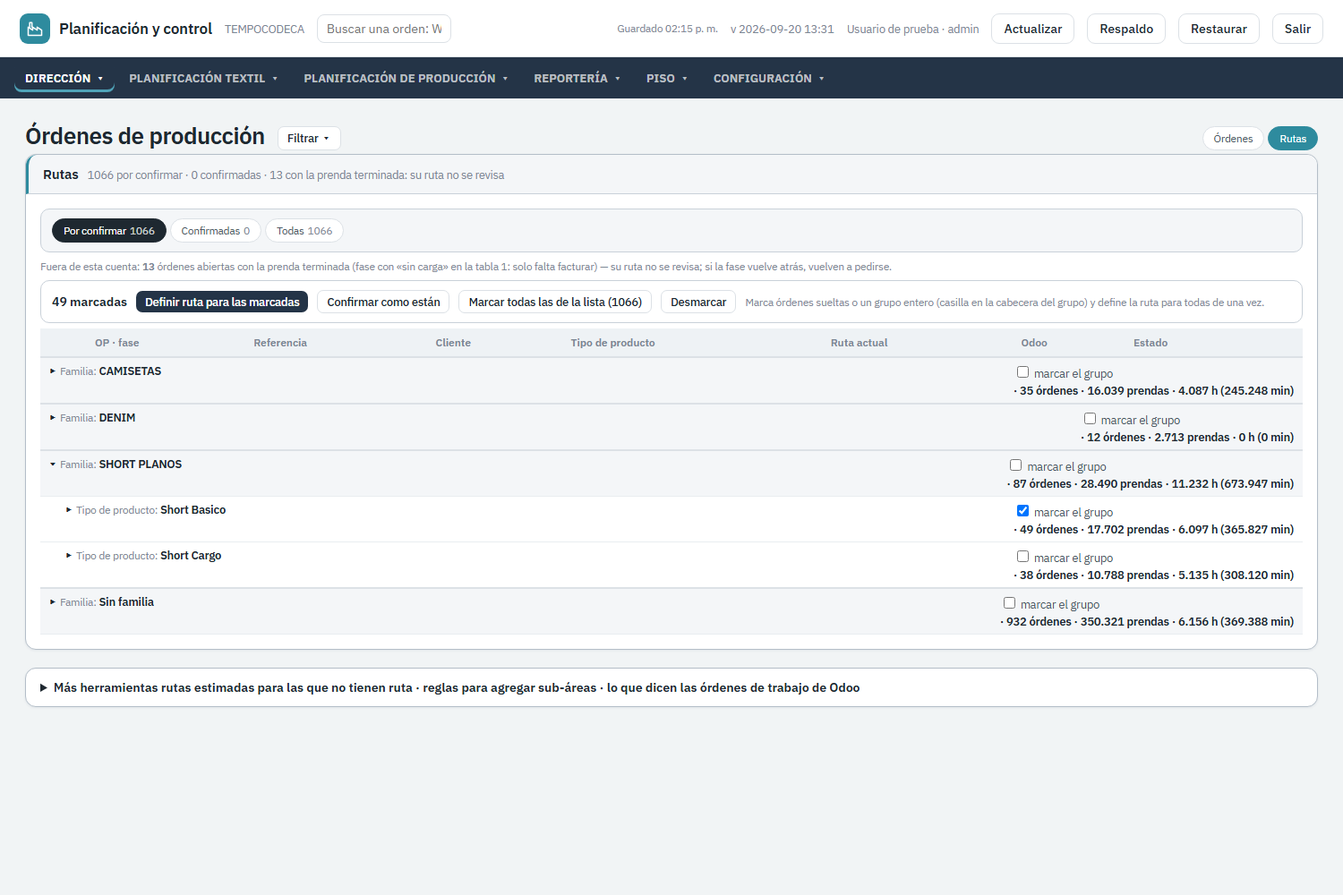
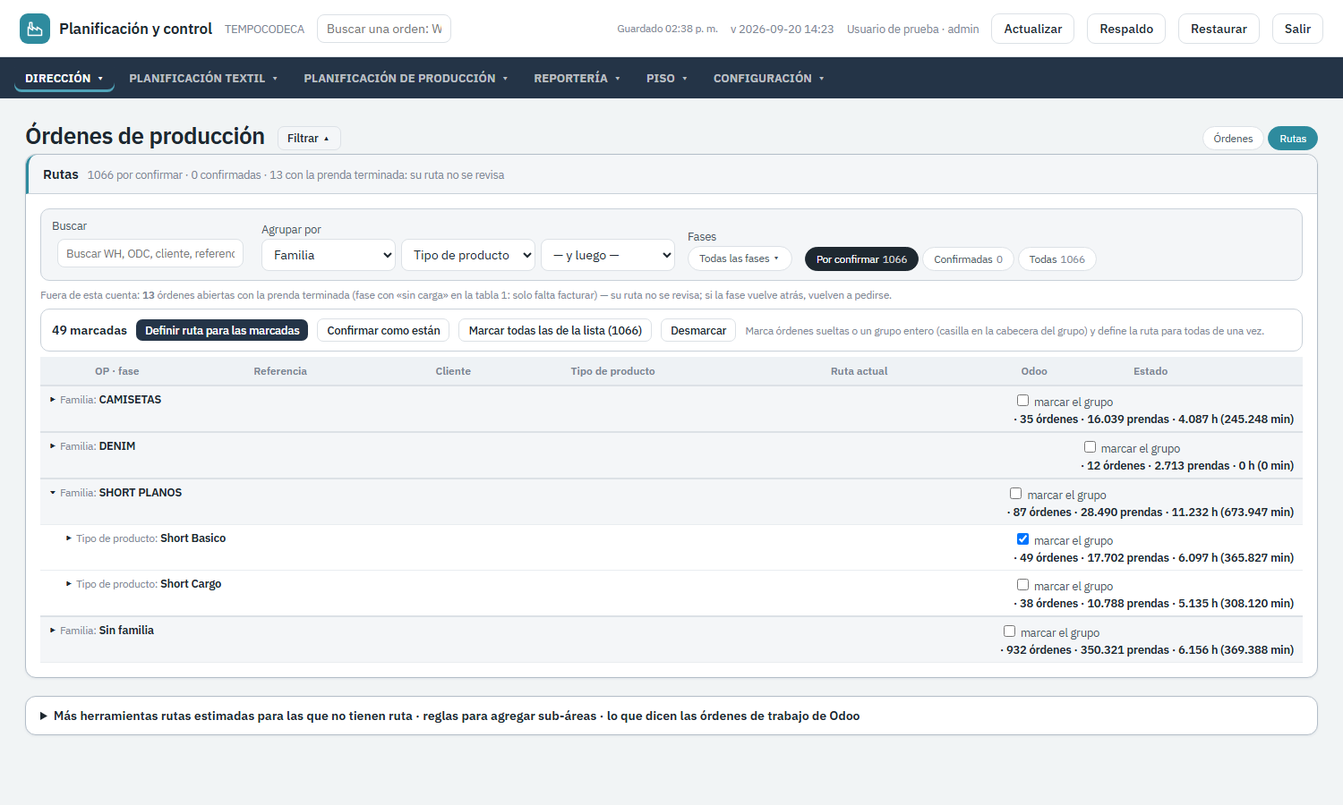
Rutas, tres cosas de la usuaria: desplegar o marcar un grupo ya no manda la lista al inicio (conScrollGRP conserva el scroll del recuadro data-grp-scroll; togGRP pasa por ahí); la fila de filtros en una sola línea (buscador · agrupar en línea · filtro de fases · chips); la ruta por orden y «qué dice

Changed region(s): [[0.0, 0.0311, 1.0, 0.8089], [0.0307, 0.8711, 0.644, 0.9022], [0.0307, 0.6533, 0.184, 0.6844]]

diff --git a/index.html b/index.html
@@ -248,6 +248,7 @@ main{padding:24px 28px 70px}
 .sub-blk>.sub-t{font-weight:700;font-size:var(--fs-s);color:var(--ink);margin-bottom:6px;display:flex;gap:8px;align-items:baseline;flex-wrap:wrap}
 .sub-blk>.sub-t .mut{font-weight:400}
 .filtros-blk{border:1.5px solid #C9D1D9;border-radius:10px;padding:10px 12px;background:var(--field);margin-bottom:12px}
+.grp-inline{display:flex;gap:6px;flex-wrap:wrap}.grp-inline select{width:auto;min-width:150px}   /* agrupador en una sola fila (Rutas) */
 .kpis{border-radius:var(--r);border:1px solid var(--rule);background:var(--rule2);gap:1px;box-shadow:0 1px 2px rgba(20,40,80,.04)}
 .kpi{padding:14px 18px}
 .kpi .v{font-size:22px;font-weight:700;color:var(--navy)}
@@ -778,7 +779,7 @@ async function _save(){
 }
 
 /* ---------- versión cargada vs publicada: nunca mirar números de una copia vieja sin saberlo ---------- */
-const APP_BUILD='2026-09-20 14:23';
+const APP_BUILD='2026-09-20 14:43';
 function verBotonesAdmin(){const ok=puede('config');['btn-respaldo','btn-restaurar'].forEach(id=>{const b=document.getElementById(id);if(b)b.style.display=ok?'':'none'})}
 function verVersion(){const e=document.getElementById('version');if(e)e.textContent='v '+APP_BUILD}
 async function revisarVersion(){try{const r=await fetch(location.pathname+'?nocache='+Date.now(),{cache:'no-store'});if(!r.ok)return;const t=await r.text();const m=t.match(/APP_BUILD=\x27([^\x27]+)\x27/);if(!m)return;
@@ -2682,7 +2683,10 @@ let GRP={};
 function claveUsr(){return (PERFIL&&(PERFIL.id||PERFIL.email))||'anon'}
 function grpSt(id){if(!GRP[id]){let n=null;try{n=JSON.parse(localStorage['__grp_'+claveUsr()+'_'+id]||localStorage['__grp_'+id]||'null')}catch(e){}GRP[id]={niveles:Array.isArray(n)?n:[],exp:new Set()}}return GRP[id]}
 function setNivelGRP(id,i,v){const g=grpSt(id);const n=g.niveles.slice();n[i]=v;g.niveles=n.filter(Boolean).filter((x,j,a)=>a.indexOf(x)===j).slice(0,3);g.exp=new Set();try{localStorage['__grp_'+claveUsr()+'_'+id]=JSON.stringify(g.niveles)}catch(e){}render()}
-function togGRP(id,k){const g=grpSt(id);if(g.exp.has(k))g.exp.delete(k);else g.exp.add(k);render()}
+function togGRP(id,k){const g=grpSt(id);if(g.exp.has(k))g.exp.delete(k);else g.exp.add(k);conScrollGRP(id,render)}
+/* redibujar sin perder la posición: el contenedor de la lista lleva data-grp-scroll="<id>" (la pestaña Rutas lo usa; cualquier lista puede) */
+function conScrollGRP(id,fn){const sc=document.querySelector('[data-grp-scroll="'+id+'"]');const top=sc?sc.scrollTop:null;const y=window.scrollY;fn();
+  if(top!=null){const s2=document.querySelector('[data-grp-scroll="'+id+'"]');if(s2)s2.scrollTop=top}try{window.scrollTo(0,y)}catch(e){}}
 function telaPrincipalDe(o){const t=(o.telas||[]).filter(x=>!x.ext&&(+x.kg||0)>0);
   if(t.length)return nTela(t.slice().sort((a,b)=>(+b.kg||0)-(+a.kg||0))[0].tela);
   const ts=telasDe(K(o.cat))||[];   // tabla categoría → tela
@@ -5454,7 +5458,8 @@ function recalcularRutas(motivo){
     const completa=((o.rutaCompleta&&o.rutaCompleta.length)?o.rutaCompleta:(o.ruta||[])).filter(x=>!(CE(x.centro)&&CE(x.centro).area==='pro'))
       .concat(a.map(c=>({centro:c,t:prev[c]!=null?prev[c]:(+sam[c]||+((CE(c)||{}).minEstandar)||0)})));
     o.rutaCompleta=completa;const fila=filaFaseDe(o.fase);o.ruta=(fila&&fila.sistema==='cerrada')?[]:pasosPendientes(completa,fila);   /* la fase manda: solo los pasos pendientes cargan */
-    registrarAuditoria('ruta',o,de.join(' → ')||'(sin ruta)',a.join(' → '),'ruta rehecha: '+(motivo||'cambió la categoría o su hoja de operaciones'),false);
+    const addOT=empatarRutaConOT(o);   /* lo que Odoo sí ejecutó vuelve a la ruta aunque el catálogo no lo traiga */
+    registrarAuditoria('ruta',o,de.join(' → ')||'(sin ruta)',a.join(' → ')+(addOT.length?' + OT: '+addOT.map(nCen).join(', '):''),'ruta rehecha: '+(motivo||'cambió la categoría o su hoja de operaciones'),false);
     sellarRuta(o);n++});
   let marcadas=0;
   r.manual.forEach(o=>{const de=pasosProDe(o);const a=rutaProSugerida(o,true);
@@ -7685,7 +7690,7 @@ function mRutaCentro(oid){const o=S.ordenes.find(x=>x.id===oid);if(!o)return;con
   abrir(`<h3>Ruta de ${esc(o.op)} <span class="note">${esc(nombreCat(K(o.cat)))} · ${num(o.cant)} pz</span></h3><div class="body">
    <p class="lede" style="margin-top:0">Marca o desmarca los pasos de tus centros. Un paso agregado toma el tiempo de la hoja de operaciones de la categoría; si la categoría no tiene tiempo para ese centro, el paso entra <b>sin tiempo</b> y queda en la bandeja "sin tiempo por prenda" hasta que se cargue. El motivo es obligatorio y todo queda en la bitácora.</p>
    <table><thead><tr><th>Paso</th><th>En la ruta</th><th class="num">SAM</th><th>Estado</th></tr></thead><tbody>
-   ${todos.map(c=>{const p=ruta.find(x=>x.centro===c.id);const puedeC=edit.includes(c.id);const hecho=faseEstado(o.fase,o).hechos.includes(c.id);const t=p?p.t:(sam[c.id]||0);const porDefecto=!p&&!o.rutaEditada&&centrosRutaDefecto().includes(c.id)&&!hecho;
+   ${todos.map(c=>{const p=ruta.find(x=>x.centro===c.id)||((o.rutaCompleta||[]).find(x=>x.centro===c.id));   /* la pendiente ya no trae los hechos: se mira también la completa */const puedeC=edit.includes(c.id);const hecho=faseEstado(o.fase,o).hechos.includes(c.id);const t=p?p.t:(sam[c.id]||0);const porDefecto=!p&&!o.rutaEditada&&centrosRutaDefecto().includes(c.id)&&!hecho;
      return `<tr><td>${esc(c.n)}${porDefecto?' <span class="tag t-ok" title="marcado en Configuración → Centros: va por defecto en toda ruta">por defecto</span>':''}</td><td><input type="checkbox" id="rc-${c.id}" ${(p||porDefecto)?'checked':''} ${puedeC&&!hecho?'':'disabled'}></td><td class="num">${p?num(p.t,2):(sam[c.id]?'<span class="mut">'+num(sam[c.id],2)+'</span>':'<span class="tag t-aviso">sin tiempo</span>')}</td><td class="mut" style="font-size:var(--fs-xs)">${hecho?'hecho':p?'pendiente':''}${!puedeC?' · no es de tus centros':''}</td></tr>`}).join('')}</tbody></table>
    <p class="mut" style="font-size:var(--fs-s);margin:10px 0 0">Lavado: ${lavadoDe(o)?'esta orden va a <b>'+esc(lavadoModoTxt(lavadoDe(o)))+'</b>':'sin modalidad asignada'} · no se pone por regla automática. <button class="btn ghost sm" onclick="cerrar();mLavado(['${o.id}'])">agregar o quitar lavado</button></p>
    <div class="row" style="margin-top:10px"><div style="flex:1"><label>Por qué (obligatorio)</label><input type="text" id="rc-motivo" placeholder="faltaba la operación, cambio de bordado a estampado, el cliente pidió lavado…"></div></div></div>
@@ -7714,6 +7719,20 @@ function desconfirmarRuta(o,motivo){if(!puedeEditarRuta()){alert('Solo el jefe d
   registrarAuditoria('ruta',o,'confirmada ('+antes.origen+')','por definir',motivo||'',true);
   bitacora('Ruta vuelta a «por definir» · '+o.op+' ('+quienFirma()+')')}
 /* --- lo que dice Odoo para esa WH: centros de sus OT, sin canceladas ni bodegas --- */
+/* La OT de Odoo manda sobre la ruta (decisión de la usuaria, 20-sep): un centro con orden de trabajo (no cancelada) es parte de la ruta de esa
+   orden aunque su categoría no lo traiga; si la OT está terminada, el paso está hecho (faseEstado0 ya lo sabe). Solo AGREGA — nunca quita un
+   paso porque le falte OT (Empaque y terminados suelen no tener). Idempotente. Corre al aplicar OT, al recargar tareas (conserva «ot») y al
+   rehacer rutas por catálogo. Devuelve los centros agregados; los marca {ot:true} en la ruta y en o.rutaOT. */
+function empatarRutaConOT(o){const cen=centrosOdooDe(o);if(!cen||!cen.length)return [];
+  const k=K(o.cat);const spc=k?(samPorCentro(k)||{}):{};const fe=faseEstado(o.fase,o);const add=[];
+  const tiene=new Set(((o.rutaCompleta||[]).concat(o.ruta||[])).map(p=>p.centro));
+  const ins=(r,c,t)=>{if(r.some(p=>p.centro===c))return;let pos=r.length;const idx=ordenPaso(c);for(let i=0;i<r.length;i++){if(ordenPaso(r[i].centro)>idx){pos=i;break}}r.splice(pos,0,{centro:c,t,ot:true})};
+  cen.forEach(c=>{if(tiene.has(c))return;const t=+((tiempoPaso({centro:c,t:0},k,spc,+o.puntadas||0)||{}).t)||0;
+    if(o.rutaCompleta&&o.rutaCompleta.length)ins(o.rutaCompleta,c,t);
+    if(!pasoHecho(o,c,fe)){o.ruta=o.ruta||[];ins(o.ruta,c,t)}   /* un paso ya hecho no vuelve a la pendiente; queda en la completa */
+    add.push(c)});
+  if(add.length){o.rutaOT=[...new Set((o.rutaOT||[]).concat(add))];if(o.rutaFirma&&typeof sellarRuta==='function')sellarRuta(o)}
+  return add}
 function centrosOdooDe(o){const ot=o&&o.ot;if(!ot||!Object.keys(ot).length)return null;
   const cen=Object.entries(ot).filter(([c,r])=>{const ce=CE(c);return ce&&ce.area==='pro'&&r&&r.estado!=='cancelado'}).map(([c])=>c);
   return cen.length?[...new Set(cen)]:[]}
@@ -7729,7 +7748,7 @@ function diagRutaOdoo(o,contras){const cod=centrosOdooDe(o);
   const sinMapear=centrosOdooSinMapear(o);
   if(sinMapear.length)return {estado:'sinMapear',txt:'centro de Odoo sin centro TEMPO: '+sinMapear.join(', ')};
   if((contras||contradiccionesOT()).has(normFase(o.op)))return {estado:'contradiccion',txt:'tiene contradicción entre la fase y las órdenes de trabajo'};
-  const ruta=pasosRutaDe(o);
+  const ruta=pasosProCompleta(o);   /* la ruta COMPLETA: los pasos ya hechos no están en la pendiente y salían como «Odoo tiene X, la ruta no» */
   const faltanEnRuta=cod.filter(c=>!ruta.includes(c));const sobranEnRuta=ruta.filter(c=>!cod.includes(c));
   if(faltanEnRuta.length||sobranEnRuta.length){
     const dif=[...faltanEnRuta.map(c=>'Odoo tiene '+nCen(c)+', la ruta no'),...sobranEnRuta.map(c=>'la ruta tiene '+nCen(c)+', Odoo no')];
@@ -7767,7 +7786,7 @@ function precargarRutasNuevas(){let n=0;S.ordenes.filter(abierta).forEach(o=>{if
 function faltaRutaConfirmada(o){return !rutaLista(o)}
 function liberadasSinRuta(){return S.ordenes.filter(o=>abierta(o)&&(liberada(o,'tela')||liberada(o,'corte'))&&!rutaLista(o))}
 /* ---------- Pestaña Rutas (Órdenes de producción) ---------- */
-let RUT={q:'',ref:null,ver:'pend',verRev:false,sel:new Set()};
+let RUT={q:'',ref:null,ver:'pend',verRev:false,sel:new Set(),fases:null};
 /* ================== RUTA EN LOTE (20-sep-2026) ==================
    La usuaria: «hay varios productos que comparten ruta; con eso podría editar la ruta masiva… un solo recuadro donde estén todas las
    órdenes, agrupar por las agrupaciones que tenemos en todo el sistema, marcar todo el grupo y definir ruta para todos».
@@ -7966,22 +7985,24 @@ function reglasRutaHTML(){const rs=reglasRuta();const p=previaReglasRuta();
    casilla por orden, y dos acciones sobre lo marcado: definir ruta (mRutaLote) o confirmar como están. Rutas estimadas, reglas de
    sub-áreas y lo que dice Odoo quedan plegados abajo en «Más herramientas». ---------- */
 function rutasBase(){return S.ordenes.filter(o=>abierta(o)&&!rutaNoAplica(o))}
-function rutasLista(){const q=normTxt(RUT.q);const v=RUT.ver;return rutasBase().filter(o=>(v==='pend'?!rutaConfirmada(o):v==='conf'?rutaConfirmada(o):true)&&matchBusq(o,q,'RUT.q'))}
+function rutasLista(){const q=normTxt(RUT.q);const v=RUT.ver;return rutasBase().filter(o=>(v==='pend'?!rutaConfirmada(o):v==='conf'?rutaConfirmada(o):true)&&faseOkFiltro(RUT.fases,o.fase)&&matchBusq(o,q,'RUT.q'))}
 function rutasBarraSel(){const n=RUT.sel.size;const el=document.getElementById('rut-sel-n');if(el)el.textContent=n;['rut-btn-def','rut-btn-conf'].forEach(id=>{const b=document.getElementById(id);if(b)b.disabled=!n})}
 function togSelRut(id,on){if(on)RUT.sel.add(id);else RUT.sel.delete(id);rutasBarraSel()}   /* sin redibujar: la lista no se mueve al marcar una fila */
-function selGrupoRut(key,on){const ids=((grpSt('rut').mapa)||{})[key]||[];ids.forEach(id=>on?RUT.sel.add(id):RUT.sel.delete(id));render()}
+function selGrupoRut(key,on){const ids=((grpSt('rut').mapa)||{})[key]||[];ids.forEach(id=>on?RUT.sel.add(id):RUT.sel.delete(id));conScrollGRP('rut',render)}
+function togFaseRUT(f){togSet(RUT,'fases',f)}
 function selTodoRut(on){rutasLista().forEach(o=>on?RUT.sel.add(o.id):RUT.sel.delete(o.id));if(!on)RUT.sel=new Set();render()}
 function rutasHTML(){const contras=contradiccionesOT();const base=rutasBase();const pend=base.filter(o=>!rutaConfirmada(o)),conf=base.filter(o=>rutaConfirmada(o));const na=rutasNoAplican();const lista=rutasLista();
   const g=grpSt('rut');if(!g.sembrado){g.sembrado=true;let guardado=null;try{guardado=localStorage['__grp_'+claveUsr()+'_rut']}catch(e){}if(guardado==null&&!g.niveles.length)g.niveles=['fam','hija']}   /* arranca agrupada por familia → tipo de producto solo la primera vez; «sin agrupar» se respeta */
   g.selFn='selGrupoRut';g.selChk=ids=>!!(ids&&ids.length&&ids.every(id=>RUT.sel.has(id)));g.todoAbierto=false;
-  const nSel=RUT.sel.size;const an=analizarRutasOdoo();
+  const nSel=RUT.sel.size;const an=analizarRutasOdoo();const fasesAllRut=[...new Set(base.map(o=>o.fase||'Sin fase'))].sort((a,b)=>faseNum(a)-faseNum(b)||a.localeCompare(b));
   const fila=o=>{const d=diagRutaOdoo(o,contras);const rc=rutaConf(o);const ruta=pasosProCompleta(o).slice().sort((a,b)=>ordenPaso(a)-ordenPaso(b));
     return `<tr><td><input type="checkbox" ${RUT.sel.has(o.id)?'checked':''} onchange="togSelRut('${o.id}',this.checked)"></td><td style="white-space:nowrap">${whCell(o)}</td><td>${esc(refDe(o))}</td><td>${esc(o.cliente||'')}</td><td>${esc(nombreCat(K(o.cat)))}</td><td style="font-size:var(--fs-xs)">${ruta.map(c=>esc(nCen(c))).join(' → ')||'<span class="tag t-alerta">sin ruta de producción</span>'}</td><td class="mut" style="font-size:var(--fs-xs)">${esc(d.txt)}</td><td style="white-space:nowrap">${rc&&rc.estado==='confirmada'?(rc.origen==='odoo'?'<span class="tag t-medio">Odoo OT</span>':'<span class="tag t-ok">persona</span>')+' <span class="mut" style="font-size:var(--fs-xs)">'+esc(rc.u||'')+' · '+new Date(rc.ts).toLocaleDateString('es-EC')+'</span>':(typeof estadoRuta==='function'&&estadoRuta(o)==='sinRevisar'?'<span class="tag t-aviso">estimada · sin revisar</span>':'<span class="tag t-aviso">por confirmar</span>')}</td><td>${puedeEditarRuta()?`<button class="btn ghost sm" onclick="mRutaCentro('${o.id}')">editar</button>`:`<button class="btn ghost sm" onclick="abrirFichaOrden('${o.id}')">ver</button>`}</td></tr>`};
   const cap=g.niveles.length?lista:lista.slice(0,600);
   return `<div class="panel"><h3>Rutas <span class="note">${pend.length} por confirmar · ${conf.length} confirmadas${na.length?' · '+na.length+' con la prenda terminada: su ruta no se revisa':''}</span></h3><div class="body">
-   <div class="row filtros-blk" style="align-items:flex-end;margin-bottom:8px">
+   <div class="row filtros-blk" style="align-items:flex-end;margin-bottom:8px;gap:14px">
     <div style="width:220px"><label>Buscar</label>${busqHTML('RUT.q',RUT.q,'RUT.q=v','width:100%;font-size:var(--fs-s);padding:4px 6px')}</div>
-    ${grpSelHTML('rut')}
+    <div><label>Agrupar por</label><div class="grp-inline" data-filt-tipo="grp">${grpSelHTML('rut',true)}</div></div>
+    <div><label>Fases</label>${filtroFasesHTML(fasesAllRut,RUT.fases,'RUT.fases','togFaseRUT')}</div>
     <div class="chips" style="margin:0">${[['pend','Por confirmar',pend.length],['conf','Confirmadas',conf.length],['todas','Todas',base.length]].map(([k,n,c])=>`<span class="chip ${RUT.ver===k?'on':''}" onclick="RUT.ver='${k}';render()">${n} <span class="mut">${c}</span></span>`).join('')}</div>
    </div>
    <p class="mut" style="font-size:var(--fs-xs);margin:0 0 8px">Fuera de esta cuenta: <b>${na.length}</b> órdenes abiertas con la prenda terminada (fase con «sin carga» en la tabla 1: solo falta facturar) — su ruta no se revisa; si la fase vuelve atrás, vuelven a pedirse.</p>
@@ -7989,7 +8010,7 @@ function rutasHTML(){const contras=contradiccionesOT();const base=rutasBase();co
     ${puedeEditarRuta()?`<button class="btn sm" id="rut-btn-def" ${nSel?'':'disabled'} onclick="abrirRutaLote()">Definir ruta para las marcadas</button><button class="btn ghost sm" id="rut-btn-conf" ${nSel?'':'disabled'} onclick="confirmarRutasSel()" title="deja confirmada la ruta que ya tiene cada una, sin cambiar ningún paso">Confirmar como están</button>`:''}
     <button class="btn ghost sm" onclick="selTodoRut(true)">Marcar todas las de la lista (${lista.length})</button><button class="btn ghost sm" onclick="selTodoRut(false)">Desmarcar</button>
     <span class="mut" style="font-size:var(--fs-xs)">Marca órdenes sueltas o un grupo entero (casilla en la cabecera del grupo) y define la ruta para todas de una vez.</span></div>
-   <div class="scroll" style="max-height:70vh"><table style="font-size:var(--fs-s)"><thead><tr><th></th><th>OP · fase</th><th>Referencia</th><th>Cliente</th><th>Tipo de producto</th><th>Ruta actual</th><th>Odoo</th><th>Estado</th><th></th></tr></thead><tbody>
+   <div class="scroll" data-grp-scroll="rut" style="max-height:70vh"><table style="font-size:var(--fs-s)"><thead><tr><th></th><th>OP · fase</th><th>Referencia</th><th>Cliente</th><th>Tipo de producto</th><th>Ruta actual</th><th>Odoo</th><th>Estado</th><th></th></tr></thead><tbody>
    ${filasGRP('rut',cap,fila,9)}
    </tbody></table>${!g.niveles.length&&lista.length>600?`<p class="mut">Se muestran 600 de ${lista.length}: agrupa o usa el buscador.</p>`:''}${!lista.length?'<div class="empty">Ninguna orden con esta búsqueda.</div>':''}</div>
   </div></div>
@@ -10467,12 +10488,12 @@ function aplicarOT(){if(!OT)return;const p=OT;const ts=new Date().toISOString();
       if(reg.estado==='terminado'){a.centros[c]=o.cant;a.centrosOT[c]=true;cierres++;if(c==='corte'){a.tejida=true;a.tinturada=true;a.lista=true}}
       if(reg.recurso&&reg.recursoConfiable&&R(reg.recurso)&&(reg.estado==='terminado'||reg.estado==='en proceso')){o.recursoFijo=o.recursoFijo||{};o.recursoFijo[c]=reg.recurso}});
     o.esperandoMaterial=Object.entries(centros).filter(([c,r])=>r.estado==='bloqueado por material').map(([c])=>c);
-    o.otTs=ts});
+    o.otTs=ts;const add=empatarRutaConOT(o);if(add.length){p.rutaEmpatada=(p.rutaEmpatada||0)+1;p.pasosOT=(p.pasosOT||0)+add.length}});
   S.params.otCarga={archivo:p.archivo,fecha:ts,filas:p.filas,ordenesArchivo:p.ordenesArchivo.size,cruce:p.cruce,ignoradas:p.ignoradas,esperandoMaterial:p.esperandoMaterial.slice(0,2000),moduloDesdeOperacion:p.moduloDesdeOperacion,noTerminadaConFin:p.noTerminadaConFin,ordenes:Object.keys(p.porOrden).length,cont:p.cont,cancelados:p.cancelados,ordenesNoEncontradas:Object.keys(p.ordenesNoEncontradas),centrosNoMapeados:p.centrosNoMapeados,centrosSinCentro:p.centrosSinCentro,estadosNoReconocidos:p.estadosNoReconocidos,contradicciones:p.contradicciones.slice(0,2000),columnas:p.columnas};
-  registrarCarga('ot',p.archivo,{ordenes:Object.keys(p.porOrden).length,cierres,noEncontradas:Object.keys(p.ordenesNoEncontradas).length,contradicciones:p.contradicciones.length,filas:p.filas,alertas:p.contradicciones.slice(0,60).map(x=>x.op+': '+nCen(x.centro)+' fase dice '+x.faseDice+', OT dice '+x.otDice)});
+  registrarCarga('ot',p.archivo,{ordenes:Object.keys(p.porOrden).length,cierres,rutaEmpatada:p.rutaEmpatada||0,pasosOT:p.pasosOT||0,noEncontradas:Object.keys(p.ordenesNoEncontradas).length,contradicciones:p.contradicciones.length,filas:p.filas,alertas:p.contradicciones.slice(0,60).map(x=>x.op+': '+nCen(x.centro)+' fase dice '+x.faseDice+', OT dice '+x.otDice)});
   /* el registro de cargas NO se recorta (decisión 17-sep-2026): antes se quedaba con las últimas 60 */
   OT=null;PLAN=null;PLAN_ALL=null;save();cerrar();render();
-  alert('Órdenes de trabajo aplicadas: '+Object.keys(p.porOrden).length+' órdenes, '+cierres+' centros cerrados. '+p.contradicciones.length+' contradicciones fase vs OT (ver Órdenes → Reporte OT).')}
+  alert('Órdenes de trabajo aplicadas: '+Object.keys(p.porOrden).length+' órdenes, '+cierres+' centros cerrados. '+(p.rutaEmpatada?p.rutaEmpatada+' órdenes recibieron en su ruta '+p.pasosOT+' pasos que Odoo sí tenía (la OT manda). ':'')+p.contradicciones.length+' contradicciones fase vs OT (ver Órdenes → Reporte OT).')}
 function mReporteOT(){const C=S.params.otCarga;if(!C){alert('Todavía no se ha cargado ningún archivo de órdenes de trabajo.');return}
   const porCentro={};C.contradicciones.forEach(x=>{const k=nCen(x.centro)+': fase '+x.faseDice+' / OT '+x.otDice;porCentro[k]=(porCentro[k]||0)+1});
   abrir(`<h3>Reporte de órdenes de trabajo · ${esc(C.archivo)}</h3><div class="body" style="max-height:70vh;overflow:auto">
@@ -11252,7 +11273,7 @@ function registrarCarga(tipo,archivo,resumen){const fila={id:uid(),ts:new Date()
   S.cargas=S.cargas||[];S.cargas.push(fila);return fila}
 function resumenCargaTxt(c){const r=c.resumen||{};
   if(c.tipo==='tareas')return [r.actualizadas+' actualizadas',r.nuevas+' nuevas',r.noVinieron+' no vinieron',r.fueraAlcance+' fuera de alcance',r.noCalzan+' no calzan',r.claveIncompleta?r.claveIncompleta+' clave incompleta':'',r.claveRepetida?r.claveRepetida+' clave repetida':'',r.fechasIlegibles?r.fechasIlegibles+' fechas ilegibles':'',r.sinComponentes?'SIN componentes':'',r.conColumnaId?('con ID de tarea ('+(r.conTareaId||0)+')'+(r.tareaIdEnlazadas?' · '+r.tareaIdEnlazadas+' enlazadas':'')+(r.tareaIdConflicto?' · '+r.tareaIdConflicto+' CONFLICTOS de ID no aplicados':'')+(r.whRepetida?' · '+r.whRepetida+' WH repetidas no aplicadas':'')+(r.perdioWH?' · '+r.perdioWH+' vinieron sin WH (conservada)':'')):(r.conColumnaId===false?'sin columna ID':'')].filter(Boolean).join(' · ');
-  if(c.tipo==='ot')return [r.ordenes+' órdenes con centros',r.cierres+' centros cerrados',r.noEncontradas?r.noEncontradas+' no encontradas':'',r.contradicciones?r.contradicciones+' contradicciones fase vs OT':''].filter(Boolean).join(' · ');
+  if(c.tipo==='ot')return [r.ordenes+' órdenes con centros',r.cierres+' centros cerrados',r.rutaEmpatada?r.rutaEmpatada+' órdenes con pasos agregados a la ruta por la OT ('+r.pasosOT+')':'',r.noEncontradas?r.noEncontradas+' no encontradas':'',r.contradicciones?r.contradicciones+' contradicciones fase vs OT':''].filter(Boolean).join(' · ');
   if(c.tipo==='maestro')return [r.filas+' productos',r.nuevos+' nuevos',r.actualizados+' actualizados',r.tempo+' TEMPO',r.conProv+' con proveedor',r.sinProv+' sin proveedor',r.conservaProv?r.conservaProv+' conservan proveedor':'',r.cambiaProv?r.cambiaProv+' cambian de proveedor':'',r.nuevosProv?r.nuevosProv+' proveedores nuevos (días estimados)':''].filter(Boolean).join(' · ');
   if(c.tipo==='fotos')return [r.subidas+' subidas',r.reemplazadas?r.reemplazadas+' reemplazadas':'',r.sinOrden?r.sinOrden+' sin orden':'',r.errores?r.errores+' errores':''].filter(Boolean).join(' · ');
   /* filas viejas (antes del registro unificado) */return [c.nuevas!=null?c.nuevas+' nuevas':'',c.act!=null?c.act+' actualizadas':'',c.cerradas?c.cerradas+' cerradas':''].filter(Boolean).join(' · ')}
@@ -11716,7 +11737,7 @@ function aplicarTarea(){if(!TAREA)return;const p=TAREA;const ts=new Date().toISO
     if(conserva('rutaEditada')&&v.rutaEditada&&v.rutaEditada.length){o.rutaEditada=v.rutaEditada.slice();cons.rutaEditada++;const k2=K(o.cat);const sam=k2?(samPorCentro(k2)||{}):{};
       v.rutaEditada.forEach(e=>{(e.menos||[]).forEach(c=>{o.ruta=(o.ruta||[]).filter(pp=>pp.centro!==c);o.rutaCompleta=(o.rutaCompleta||[]).filter(pp=>pp.centro!==c)});
         (e.mas||[]).forEach(c=>{if(!(o.rutaCompleta||[]).some(pp=>pp.centro===c)){const idx=ordenPaso(c);['ruta','rutaCompleta'].forEach(kk=>{const r=o[kk]||[];let pos=r.length;for(let i=0;i<r.length;i++){if(ordenPaso(r[i].centro)>idx){pos=i;break}}r.splice(pos,0,{centro:c,t:sam[c]||0});o[kk]=r})}})})}
-    if(conserva('ot')&&v.ot){o.ot=v.ot;o.otTs=v.otTs;if(v.esperandoMaterial)o.esperandoMaterial=v.esperandoMaterial;cons.ot++}
+    if(conserva('ot')&&v.ot){o.ot=v.ot;o.otTs=v.otTs;if(v.esperandoMaterial)o.esperandoMaterial=v.esperandoMaterial;cons.ot++;empatarRutaConOT(o)}   /* la OT manda sobre la ruta también después de la recarga */
     if(conserva('terminadaF')&&v.terminadaF){o.terminadaF=v.terminadaF;cons.terminadaF++}
     /* auditoría 19-sep: estos campos estaban en la tabla 14 (o son decisiones de la app) y la carga los perdía */
     if(conserva('rutaConf')&&v.rutaConf){o.rutaConf=v.rutaConf;cons.rutaConf=(cons.rutaConf||0)+1}

diff --git a/test/driver.js b/test/driver.js
@@ -157,7 +157,7 @@ async function __run(){try{LISTO=true;}catch(e){}try{__R.prevFuzz=localStorage._
     if(/captura=ux/.test(location.search)){const m=location.search.match(/captura=ux([a-z]+?)(f?)(q?)$/)||[];const p=m[1]||'ordenes';PERFIL=adminP0();FILT={};
       if(p==='ordenes'){grpSt('ord').niveles=[];ORDF.q='';ORDF.fases=null;ORDF.estado='plan';ORDF.tab='ord'}if(p==='entregas'){EG.q='';EG.meses=new Set()}if(p==='control'){CTL.area='pro'}if(p==='liberacion'){LIB.et='tela'}
       if(m[2])FILT[p]=true;
-      if(p==='lote'||p==='rutas'){page='ordenes';ORDF.tab='rutas';RUT.sel=new Set();RUT.ver='pend';RUT.q='';GRP={};grpSt('rut').niveles=['fam','hija'];render();const porCat={};rutasLista().forEach(o=>{const k=K(o.cat);if(!k||!k.padre)return;(porCat[k.id]=porCat[k.id]||[]).push(o)});const catId=Object.keys(porCat).sort((a,b)=>porCat[b].length-porCat[a].length)[0];porCat[catId].forEach(o=>RUT.sel.add(o.id));render();if(p==='rutas'){const k=K(catId);const key='|'+(K(k.padre)||k).n;grpSt('rut').exp.add(key);render();document.querySelectorAll('#p-ordenes .scroll').forEach(x=>{x.style.maxHeight='none'});document.querySelectorAll('main,#app').forEach(x=>{x.style.height='auto';x.style.maxHeight='none';x.style.overflow='visible'});[...document.body.childNodes].filter(n=>n.nodeType===3).forEach(n=>n.remove());document.body.classList.add('captura');__R.done=true;return}abrirRutaLote();const cl=centrosLote();const ag=cl.find(c=>c.editable&&!(RLOTE.cens||[]).includes(c.id)&&['estampado','bordado'].includes(c.id));if(ag)rutaLoteTog(ag.id);
+      if(p==='lote'||p==='rutas'){page='ordenes';ORDF.tab='rutas';if(m[2]){FILT_USR=filtClave();FILT={ordenes:true}}RUT.sel=new Set();RUT.ver='pend';RUT.q='';GRP={};grpSt('rut').niveles=['fam','hija'];render();const porCat={};rutasLista().forEach(o=>{const k=K(o.cat);if(!k||!k.padre)return;(porCat[k.id]=porCat[k.id]||[]).push(o)});const catId=Object.keys(porCat).sort((a,b)=>porCat[b].length-porCat[a].length)[0];porCat[catId].forEach(o=>RUT.sel.add(o.id));render();if(p==='rutas'){const k=K(catId);const key='|'+(K(k.padre)||k).n;grpSt('rut').exp.add(key);render();document.querySelectorAll('#p-ordenes .scroll').forEach(x=>{x.style.maxHeight='none'});document.querySelectorAll('main,#app').forEach(x=>{x.style.height='auto';x.style.maxHeight='none';x.style.overflow='visible'});[...document.body.childNodes].filter(n=>n.nodeType===3).forEach(n=>n.remove());document.body.classList.add('captura');__R.done=true;return}abrirRutaLote();const cl=centrosLote();const ag=cl.find(c=>c.editable&&!(RLOTE.cens||[]).includes(c.id)&&['estampado','bordado'].includes(c.id));if(ag)rutaLoteTog(ag.id);
        document.getElementById('app').style.display='none';document.getElementById('veil').style.position='static';document.getElementById('veil').style.background='#ECEEEF';document.getElementById('veil').style.padding='10px';document.getElementById('modal').style.maxHeight='none';document.getElementById('modal').style.overflow='visible';document.querySelectorAll('#modal .scroll').forEach(x=>{x.style.maxHeight='180px'});[...document.body.childNodes].filter(n=>n.nodeType===3).forEach(n=>n.remove());document.body.classList.add('captura');__R.done=true;return}
       if(p==='ficha'){page='ordenes';ORDF.edicion='porEditar';render();const o=S.ordenes.find(o=>abiertaDe(o)&&lanzada(o)&&fotoDe(o)&&(o.materiales||[]).some(x=>x.clasif==='tela')&&(o.ruta||[]).length>=4)||S.ordenes.find(o=>abiertaDe(o)&&lanzada(o)&&(o.materiales||[]).some(x=>x.clasif==='tela'));mOrden(o.id);document.getElementById('app').style.display='none';document.getElementById('veil').style.position='static';document.getElementById('veil').style.background='#ECEEEF';document.getElementById('veil').style.padding='10px';document.getElementById('modal').style.maxHeight='none';document.getElementById('modal').style.overflow='visible';document.body.classList.add('captura');__R.done=true;return}
       page=p;render();if(m[3]){const a=document.querySelector('#p-'+p+' .pagehead .ayuda-cab');if(a)a.classList.add('abierto')}
@@ -6703,6 +6703,34 @@ async function __run(){try{LISTO=true;}catch(e){}try{__R.prevFuzz=localStorage._
       const p3=planRutaLote([oC],pasosProCompleta(oC).filter(c=>c!=='corte'));__check('RLT: un paso cerrado en piso también se conserva aunque se desmarque',p3.filas[0].conserv.includes('corte')&&!p3.filas[0].menos.includes('corte'),JSON.stringify(p3.filas[0].conserv));if(bakA===undefined){S.avance[oC.id]={}}else S.avance[oC.id]=bakA;}else __check('RLT: hay una orden con corte pendiente para probar el cierre en piso',false);}
     __check('RLT: cancelar deja el estado del lote limpio',(RLOTE.ids=['x'],RLOTE.tocado=true,cancelarRutaLote(),!RLOTE.ids.length&&RLOTE.cens===null&&!RLOTE.tocado));
     cerrar();RLOTE=RLOTE0();RUT.sel=new Set();RUT.ver='pend';ORDF.tab='ord';PLAN=null;PLAN_ALL=null;}
+   /* UX3 · tres cosas de la usuaria (20-sep): desplegar un grupo no manda la lista al inicio; filtros en una fila con fases; la ruta muestra lo hecho y la OT manda */
+   {PERFIL=adminP0();RUT.sel=new Set();RUT.ver='pend';RUT.q='';RUT.fases=null;delete BUSQ['RUT.q'];GRP={};grpSt('rut').niveles=['fam','hija'];page='ordenes';ORDF.tab='rutas';render();
+    const pg=()=>document.getElementById('p-ordenes');const sc=()=>pg().querySelector('[data-grp-scroll="rut"]');
+    __check('UX3: la fila de filtros de Rutas trae buscador, agrupador en línea, filtro de fases y los chips, todo en una sola fila',!!sc()&&/togFaseRUT|RUT\.fases/.test(pg().innerHTML)&&pg().querySelectorAll('.filtros-blk select').length>=2&&!!pg().querySelector('.filtros-blk details.ffases'));
+    /* desplegar el grupo más grande para que la lista tenga scroll; luego desplegar otro sin perder la posición */
+    {const host=document.createElement('div');host.innerHTML='<div data-grp-scroll="zz" style="height:100px;overflow:auto"><div style="height:900px">x</div></div>';document.body.appendChild(host);host.firstChild.scrollTop=140;
+     conScrollGRP('zz',()=>{host.innerHTML='<div data-grp-scroll="zz" style="height:100px;overflow:auto"><div style="height:900px">y</div></div>'});
+     __check('UX3: redibujar la lista con conScrollGRP conserva el scroll del recuadro (el que se perdía al desplegar un grupo) y togGRP / marcar grupo pasan por ahí',host.firstChild.scrollTop===140&&/conScrollGRP\(id,render\)/.test(String(togGRP))&&/conScrollGRP\('rut',render\)/.test(String(selGrupoRut))&&!!sc(),JSON.stringify({top:host.firstChild.scrollTop}));host.remove();}
+    /* filtro de fases como en las demás pantallas */
+    {const fase=(rutasBase().find(o=>o.fase)||{}).fase;RUT.fases=new Set([fase]);render();
+     __check('UX3: el filtro de fases acota la lista de Rutas',!!fase&&rutasLista().length>0&&rutasLista().every(o=>o.fase===fase)&&pg().querySelectorAll('tr.grp-row').length>0,JSON.stringify({fase,n:rutasLista().length}));RUT.fases=null;render();}
+    /* la ruta por orden marca los pasos ya hechos (están en la completa, no en la pendiente) */
+    {const o=S.ordenes.find(x=>abierta(x)&&lanzada(x)&&!rutaNoAplica(x)&&(x.rutaCompleta||[]).some(p=>p.centro==='corte')&&(x.rutaCompleta||[]).some(p=>p.centro==='empaque'));const filaConf=faseMapeo().find(r=>normFase(r.fase)===normFase('7Confección'));
+     if(o&&filaConf){const bak=JSON.stringify(o);aplicarFaseSistema(o,filaConf.fase);const pend=(o.ruta||[]).map(p=>p.centro);mRutaCentro(o.id);const cb=document.getElementById('rc-corte');const h=document.getElementById('modal').innerHTML;
+      __check('UX3: en fase 7Confección el corte ya no está en la ruta pendiente pero la ficha de ruta lo muestra MARCADO y «hecho» (antes salía desmarcado)',!pend.includes('corte')&&!!cb&&cb.checked&&cb.disabled&&/hecho/.test(h),JSON.stringify({pend,checked:cb&&cb.checked}));
+      /* lo que dice Odoo se compara contra la ruta completa */
+      const rc=pasosProCompleta(o);o.ot={};rc.forEach(c=>{o.ot[c]={estado:c==='corte'?'terminado':'para hacer',odoo:'WC-'+c}});delete o.rutaConf;PLAN=null;
+      const d=diagRutaOdoo(o,new Set());__check('UX3: con OT en cada paso de la ruta completa (corte terminado), Odoo «coincide exacto» aunque el corte ya no esté en la pendiente (antes salía «Odoo tiene Corte, la ruta no»)',d.estado==='coincide',JSON.stringify(d));
+      cerrar();Object.assign(o,JSON.parse(bak));if(!JSON.parse(bak).ot)delete o.ot;PLAN=null;PLAN_ALL=null;}else __check('UX3: hay una orden con corte y empaque en la ruta completa para probar',false);}
+    /* la OT manda sobre la ruta: un centro con orden de trabajo entra a la ruta (hecho → solo en la completa; pendiente → en las dos); nunca quita */
+    {const o=S.ordenes.find(x=>abierta(x)&&lanzada(x)&&!rutaNoAplica(x)&&(x.rutaCompleta||[]).length&&!pasosProCompleta(x).includes('bordado')&&!pasosProCompleta(x).includes('botones')&&CE('bordado')&&CE('botones'));
+     if(o){const bak=JSON.stringify(o);const antes=pasosProCompleta(o).slice();o.ot=Object.assign({},o.ot||{},{bordado:{estado:'terminado',odoo:'WC-B'},botones:{estado:'para hacer',odoo:'WC-BT'}});
+      const add=empatarRutaConOT(o);const comp=o.rutaCompleta.map(p=>p.centro);const pend=(o.ruta||[]).map(p=>p.centro);
+      __check('UX3: empatarRutaConOT agrega a la ruta los centros con OT: el terminado (bordado) solo a la completa, el pendiente (botones) a la completa y a la pendiente, en su orden de paso, marcados ot y en o.rutaOT; no quita nada',add.join()==='bordado,botones'&&comp.includes('bordado')&&comp.includes('botones')&&!pend.includes('bordado')&&pend.includes('botones')&&antes.every(c=>comp.includes(c))&&o.rutaCompleta.find(p=>p.centro==='bordado').ot===true&&add.every(c=>(o.rutaOT||[]).includes(c))&&comp.indexOf('botones')>comp.indexOf('modulos')&&comp.indexOf('botones')<comp.indexOf('empaque'),JSON.stringify({add,comp,pend}));
+      __check('UX3: volver a empatar no agrega nada (idempotente)',empatarRutaConOT(o).length===0&&o.rutaCompleta.filter(p=>p.centro==='bordado').length===1);
+      Object.assign(o,JSON.parse(bak));if(!JSON.parse(bak).ot)delete o.ot;if(!JSON.parse(bak).rutaOT)delete o.rutaOT;PLAN=null;PLAN_ALL=null;}else __check('UX3: hay una orden sin bordado ni botones en la ruta para probar la OT',false);
+     __check('UX3: la OT manda en los tres caminos: al aplicar OT, al recargar tareas (conserva «ot») y al rehacer rutas por catálogo',/empatarRutaConOT\(o\)/.test(String(aplicarOT))&&/empatarRutaConOT\(o\)/.test(String(aplicarTarea))&&/empatarRutaConOT\(o\)/.test(String(recalcularRutas)));}
+    RUT.sel=new Set();RUT.fases=null;ORDF.tab='ord';}
    /* RD · ruta por defecto al CARGAR una orden cuya familia no tiene hoja de operaciones (regla del 16-sep aplicada de entrada) */
    {const H=tareaRows[0];const col=n=>H.indexOf(n);const padre={id:'k_rd_p',n:'FAMILIA SIN HOJA RD'};const hija={id:'k_rd_h',padre:'k_rd_p',n:'Prenda RD',minEstConf:7.5};S.categorias.push(padre,hija);
     const f=new Array(H.length).fill(null);f[col('Orden de producción')]='WH/MO/99301';f[col('Proyecto')]='NOVIEMBRE 2026';f[col('Cliente')]='CLIENTE RD';f[col('ODC')]='8801';f[col('Stilo')]='RD1';f[col('Categoría Padre')]='FAMILIA SIN HOJA RD';f[col('Categoría Hija')]='Prenda RD';f[col('Color')]='BIRCH';f[col('Fase')]='2Planificacion';f[col('Estado OP')]='confirmed';f[col('Pedido')]=100;f[col('Fecha Entrega')]='2026-12-01';

diff --git a/RUTA_EN_LOTE.md b/RUTA_EN_LOTE.md
@@ -77,6 +77,46 @@ avance registrado en piso (unidades o tramo abierto) se avisa en la fila, en el 
   persona y la ruta queda editada a mano: el recálculo automático no la pisa (la marca «revisar» si cambia el catálogo).
 - Nada corre solo; nada se borra; cancelar o aplicar deja el estado del lote limpio (`RLOTE0`).
 
+## Tres cosas más de la usuaria (20-sep, tarde)
+1. **Desplegar un grupo mandaba la lista al inicio.** `togGRP` redibuja toda la página y el recuadro con scroll volvía arriba.
+   Ahora `conScrollGRP(id,fn)` guarda el `scrollTop` del contenedor marcado `data-grp-scroll="<id>"` (y el de la ventana), redibuja y
+   lo restaura; lo usan `togGRP` (cualquier lista que lleve el atributo) y `selGrupoRut`. La lista de Rutas lo lleva.
+2. **Aprovechar el ancho.** La fila de filtros de Rutas va en UNA línea: buscador · agrupar por (los tres selectores en línea) ·
+   **filtro de fases** (`filtroFasesHTML`, `RUT.fases`, `togFaseRUT`, como en las demás pantallas) · chips.
+3. **Los pasos ya hechos salían desmarcados en la ruta por orden** (una orden en 8Servicios y Terminados mostraba Corte, Estampado,
+   Bordado, Confección «hecho» pero sin marcar). Causa: `mRutaCentro` miraba solo `o.ruta` (la pendiente), y los pasos hechos ya
+   no están ahí. Ahora mira también `o.rutaCompleta`: lo hecho sale marcado y deshabilitado, y solo queda por decidir lo de
+   terminados. Lo mismo le pasaba a **«qué dice Odoo»** (`diagRutaOdoo` comparaba contra la pendiente: «Odoo tiene Corte, la ruta
+   no» en órdenes que sí lo tenían y ya lo habían cortado); ahora compara contra la completa (`pasosProCompleta`), así que muchas más
+   «coinciden exacto» y se pueden confirmar solas.
+   **La OT manda sobre la ruta** (decisión de la usuaria: «cuando cargue la orden de trabajo debería empatarse a la ruta»):
+   `empatarRutaConOT(o)` agrega a la ruta todo centro de producción con orden de trabajo no cancelada (terminada → solo a la
+   completa, como hecho; pendiente → a la completa y a la pendiente), en su orden de paso, con el tiempo de `tiempoPaso`, marcado
+   `{ot:true}` y anotado en `o.rutaOT`; **nunca quita** un paso por falta de OT (Empaque y terminados suelen no tener). Corre al
+   aplicar OT (`aplicarOT`; el aviso y el registro de cargas dicen cuántas órdenes recibieron pasos), al recargar tareas (`aplicarTarea`
+   conserva «ot» y vuelve a empatar) y al rehacer rutas por catálogo (`recalcularRutas`, con la nota «+ OT: …» en la auditoría).
+   Pruebas UX3.
+
+## Tres cosas más de la usuaria (20-sep, tarde)
+1. **Desplegar un grupo mandaba la lista al inicio.** `togGRP` redibuja toda la página y el recuadro con scroll volvía arriba.
+   Ahora `conScrollGRP(id,fn)` guarda el `scrollTop` del contenedor marcado `data-grp-scroll="<id>"` (y el de la ventana), redibuja y
+   lo restaura; lo usan `togGRP` (cualquier lista que lleve el atributo) y `selGrupoRut`. La lista de Rutas lo lleva.
+2. **Aprovechar el ancho.** La fila de filtros de Rutas va en UNA línea: buscador · agrupar por (los tres selectores en línea) ·
+   **filtro de fases** (`filtroFasesHTML`, `RUT.fases`, `togFaseRUT`, como en las demás pantallas) · chips.
+3. **Los pasos ya hechos salían desmarcados en la ruta por orden** (una orden en 8Servicios y Terminados mostraba Corte, Estampado,
+   Bordado, Confección «hecho» pero sin marcar). Causa: `mRutaCentro` miraba solo `o.ruta` (la pendiente), y los pasos hechos ya
+   no están ahí. Ahora mira también `o.rutaCompleta`: lo hecho sale marcado y deshabilitado, y solo queda por decidir lo de
+   terminados. Lo mismo le pasaba a **«qué dice Odoo»** (`diagRutaOdoo` comparaba contra la pendiente: «Odoo tiene Corte, la ruta
+   no» en órdenes que sí lo tenían y ya lo habían cortado); ahora compara contra la completa (`pasosProCompleta`), así que muchas más
+   «coinciden exacto» y se pueden confirmar solas.
+   **La OT manda sobre la ruta** (decisión de la usuaria: «cuando cargue la orden de trabajo debería empatarse a la ruta»):
+   `empatarRutaConOT(o)` agrega a la ruta todo centro de producción con orden de trabajo no cancelada (terminada → solo a la
+   completa, como hecho; pendiente → a la completa y a la pendiente), en su orden de paso, con el tiempo de `tiempoPaso`, marcado
+   `{ot:true}` y anotado en `o.rutaOT`; **nunca quita** un paso por falta de OT (Empaque y terminados suelen no tener). Corre al
+   aplicar OT (`aplicarOT`; el aviso y el registro de cargas dicen cuántas órdenes recibieron pasos), al recargar tareas (`aplicarTarea`
+   conserva «ot» y vuelve a empatar) y al rehacer rutas por catálogo (`recalcularRutas`, con la nota «+ OT: …» en la auditoría).
+   Pruebas UX3.
+
 ## Pruebas
 Bloque **RLT** del simulador (23 comprobaciones): la lista y sus grupos con casilla, marcar un grupo desde la cabecera, marcar
 / desmarcar una fila sin redibujar, el modal sobre la selección, base más común, plan (entra/sale/conserva/excluido por la fase),

diff --git a/CLAUDE.md b/CLAUDE.md
@@ -973,6 +973,12 @@ Empaque**, confirm; inserta por `ordenPaso` en `o.ruta` y deja `o.rutaCompleta` 
 etapa `lote`, `rutaConf` persona «ruta en lote», auditoría por orden, UNA bitácora, `avisosFechaLote` = `conAvisoFecha` en lote, limpia `RUT.sel`).
 `avisosRutaLote` avisa Empaque y centros por defecto. **No crear otro camino de edición masiva ni volver a partir la pestaña en bloques.**
 Pruebas RLT; capturas `?captura=uxrutas` / `uxlote`. Ver `RUTA_EN_LOTE.md`.
+**Tarde del 20-sep:** `conScrollGRP(id,fn)` (contenedor `data-grp-scroll="<id>"`) conserva el scroll al desplegar o marcar un grupo — `togGRP` ya pasa por
+ahí: toda lista larga con agrupador debería llevar el atributo; la fila de filtros de Rutas va en una línea con **filtro de fases** (`RUT.fases`, `togFaseRUT`).
+**La ruta por orden (`mRutaCentro`) y «qué dice Odoo» (`diagRutaOdoo`) miran la ruta COMPLETA**, no solo la pendiente: los pasos hechos ya no están en
+`o.ruta` y salían desmarcados / «Odoo tiene X, la ruta no». **La OT manda sobre la ruta**: `empatarRutaConOT(o)` agrega (nunca quita) a la ruta los centros
+con orden de trabajo no cancelada (terminada → solo completa; pendiente → completa y pendiente), `{ot:true}` + `o.rutaOT`; corre en `aplicarOT`, en
+`aplicarTarea` (tras conservar «ot») y en `recalcularRutas`. Pruebas UX3.
 
 **Ruta por defecto al cargar (20-sep-2026):** en `planTarea`, si la categoría existe pero no aporta ningún centro de producción (sin hoja LMO), la
 orden nace con `RUTA_DEFECTO_PRO` (corte → confección → empaque) además de lo que pida la orden, marcada `rutaDefecto:true` y `rutaConf` «estimada» con nota;

diff --git a/TRASPASO_TEMPO_PCP.md b/TRASPASO_TEMPO_PCP.md
@@ -209,7 +209,10 @@ resumen por centro compacto; semanas vacías ocultas (15-sep). Estado: septiembr
   orden; sobre lo marcado: «Definir ruta para las marcadas» (rutas actuales con «usar», casillas de centros, plan por orden — entra /
   sale / conserva lo hecho o excluido por la fase / sin tiempo / con avance —, motivo, confirmación, Empaque obligatorio, tiempos por
   `tiempoPaso`, confirmación y auditoría por orden, una bitácora, advertencias de fecha) y «Confirmar como están». Rutas estimadas,
-  reglas de sub-áreas y Odoo plegados en «Más herramientas». Ver `RUTA_EN_LOTE.md`.
+  reglas de sub-áreas y Odoo plegados en «Más herramientas». Desplegar un grupo ya no manda la lista al inicio; filtros en una fila con
+  filtro de fases. La ruta por orden y «qué dice Odoo» miran la ruta completa (los pasos hechos salían desmarcados). **La OT manda
+  sobre la ruta**: al cargar órdenes de trabajo (y al recargar tareas o rehacer rutas) el centro con OT entra a la ruta; nunca se quita
+  un paso por falta de OT. Ver `RUTA_EN_LOTE.md`.
 
 ### 2.67 Ruta lista sin editar y bloques de la ficha que no se cierran solos (20-sep)
 - Decisión de la usuaria: una orden con la prenda terminada (fase con «sin carga» en la tabla 1: empaque terminado, cross, centro
